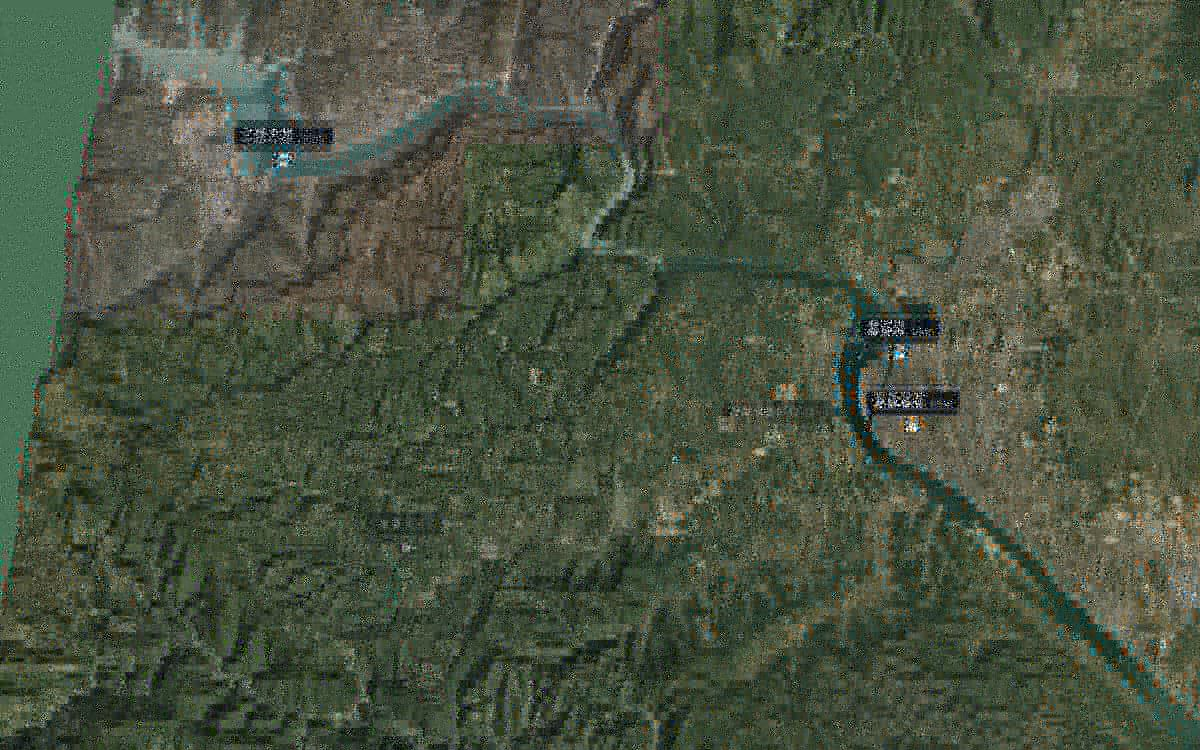
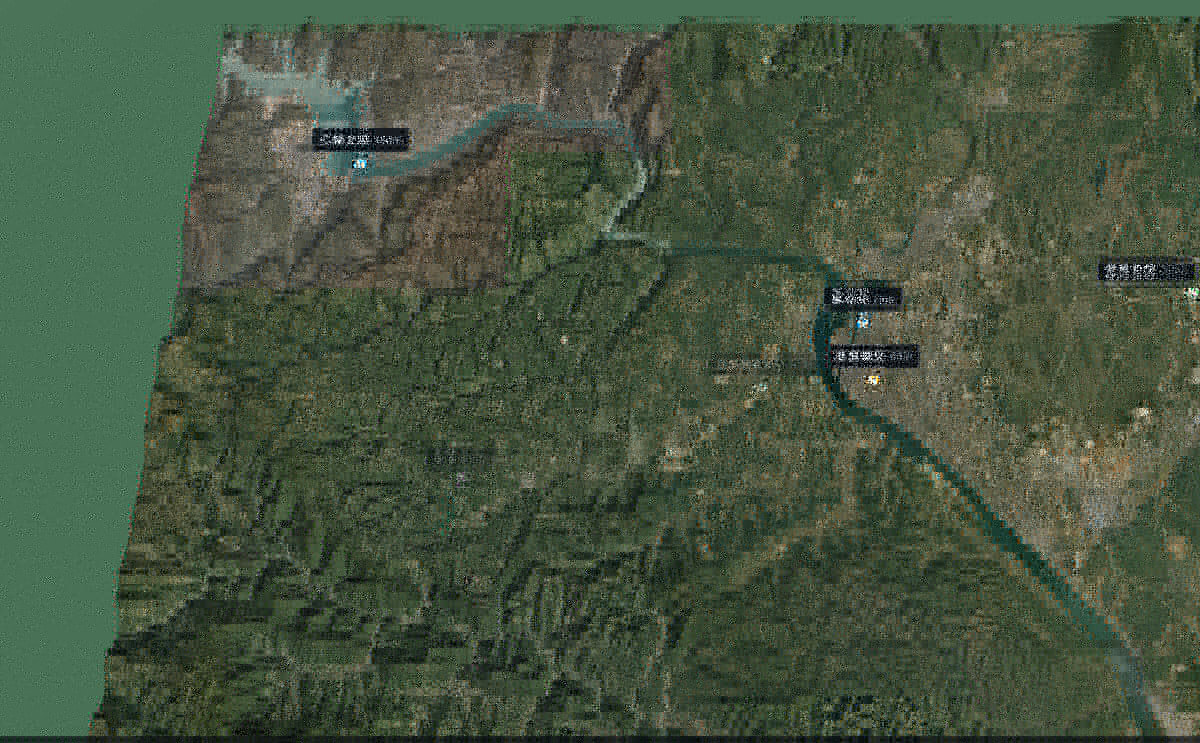
Landing images: capture at 3x, integer 3:1 downscale, chroma smoothing, single 4:4:4 JPEG encode (fixes 4:2:0 colour fringing on label text)

diff --git a/index.html b/index.html
@@ -102,7 +102,7 @@ footer{border-top:1px solid var(--line);padding-top:16px}
   <p class="sub">3D 地形地图 · 三峡库区<span>THREE GORGES · HUBEI, CHINA · 63 × 46 KM</span></p>
 
   <a class="shot" href="map.html" aria-label="进入 3D 地图">
-    <img src="hero-band.jpg" width="1200" height="750" alt="宜昌 3D 地图截图：三峡库区卫星影像与地标">
+    <img src="hero-band.jpg" width="1200" height="743" alt="宜昌 3D 地图截图：三峡库区卫星影像与地标">
     <span class="ov"><span class="play"><i></i>进入地图</span></span>
   </a>
 
